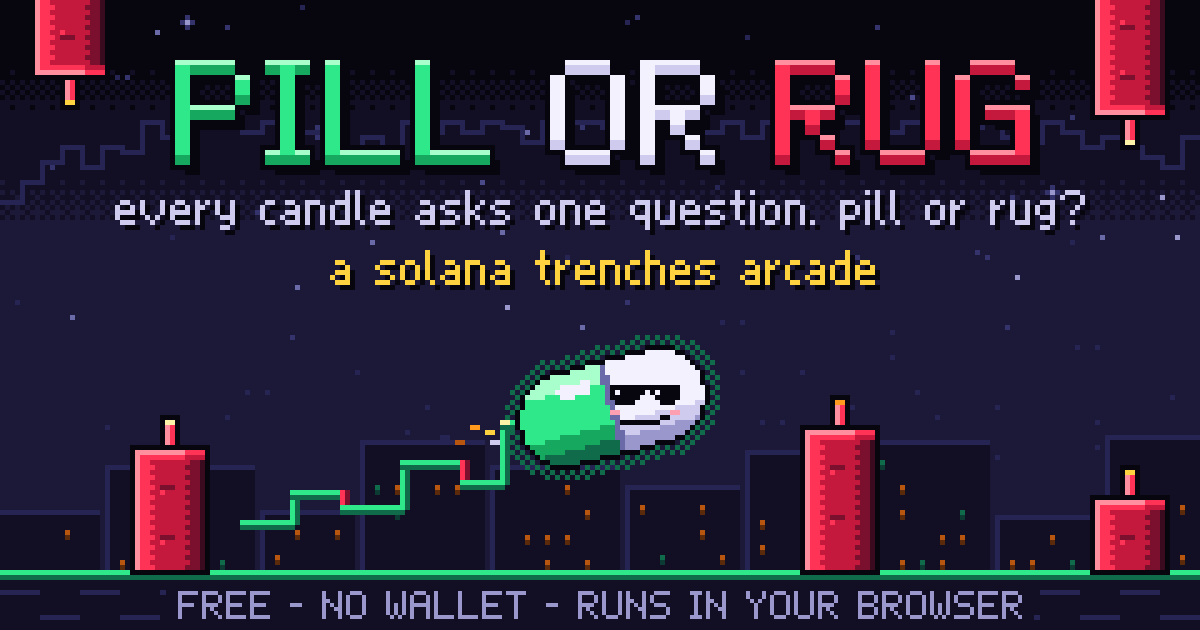
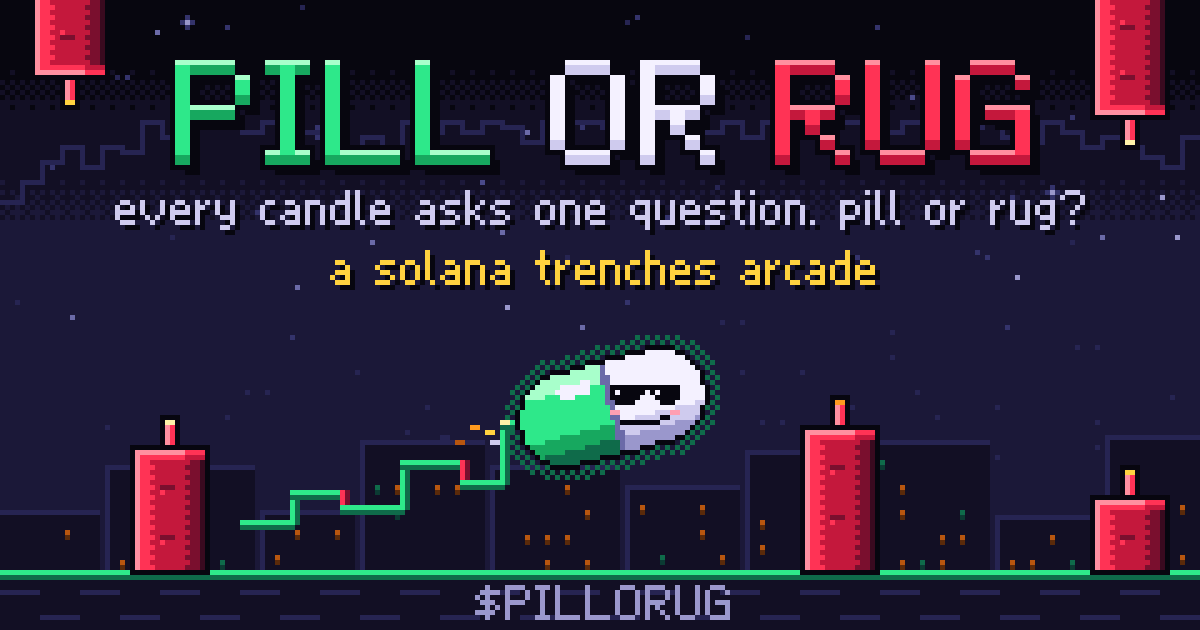
CA live

Changed region(s): [[0.1233, 0.9048, 0.8633, 0.9952]]

diff --git a/index.html b/index.html
@@ -41,7 +41,7 @@
     // X_URL / TELEGRAM_URL / PUMP_URL: official links. '' = hidden (never a dead link). PUMP_URL defaults to pump.fun/coin/<CA>.
     window.CONFIG = {
       API_BASE: 'https://pill-or-rug-api.pill-or-rug-score-server.workers.dev',
-      CA: '',
+      CA: '8mrB1zhx3fGGbLDGpRVQfaEr2R3JntoQT6q6Crc5pump',
       X_URL: 'https://x.com/i/communities/2030419790800486624',
       TELEGRAM_URL: 'https://t.me/PillOrRugPortal',
       PUMP_URL: '',
